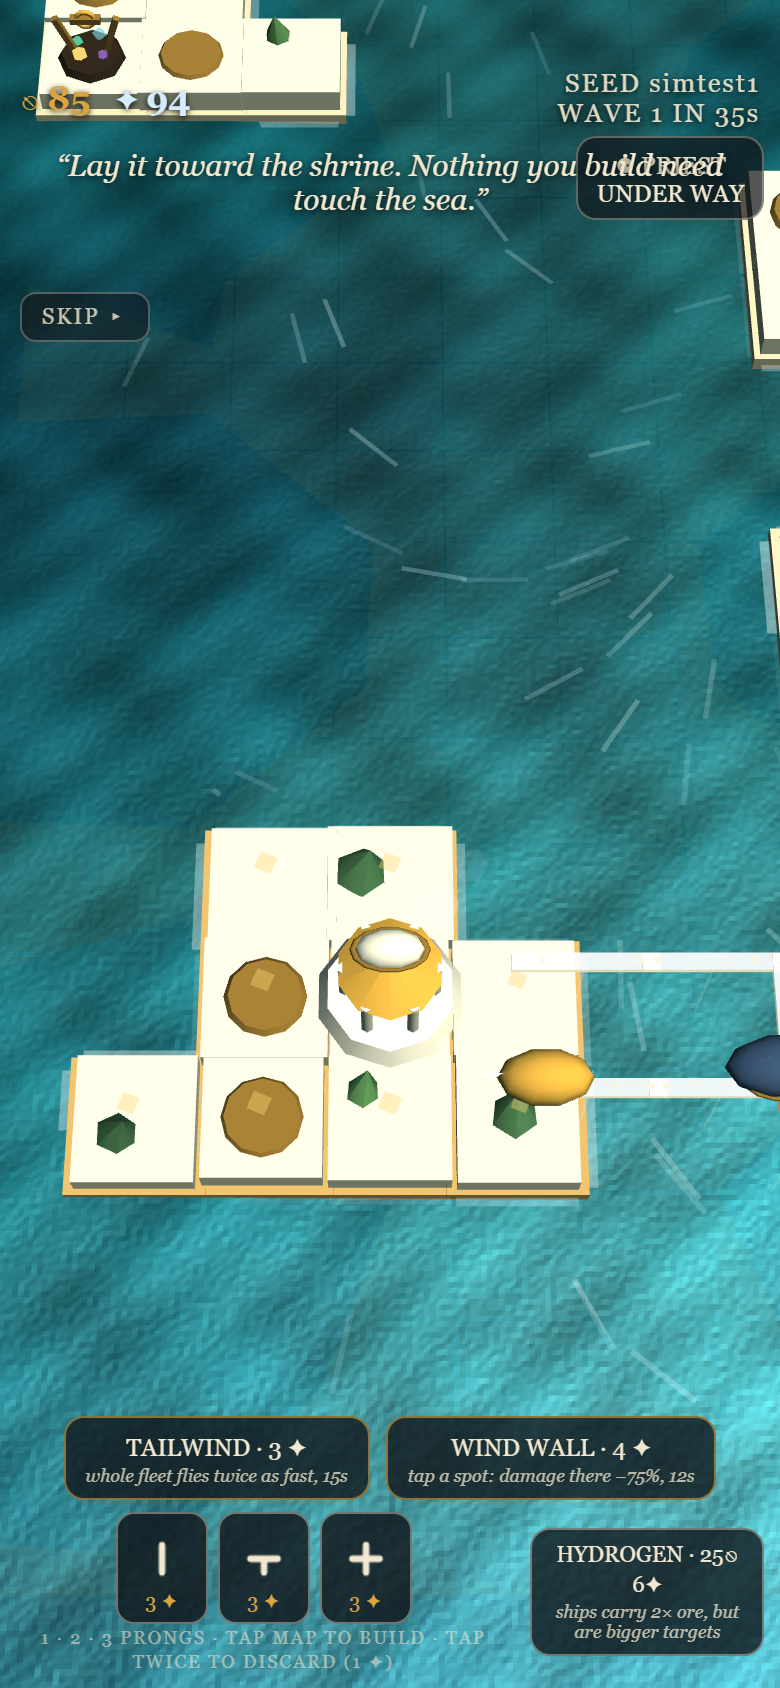
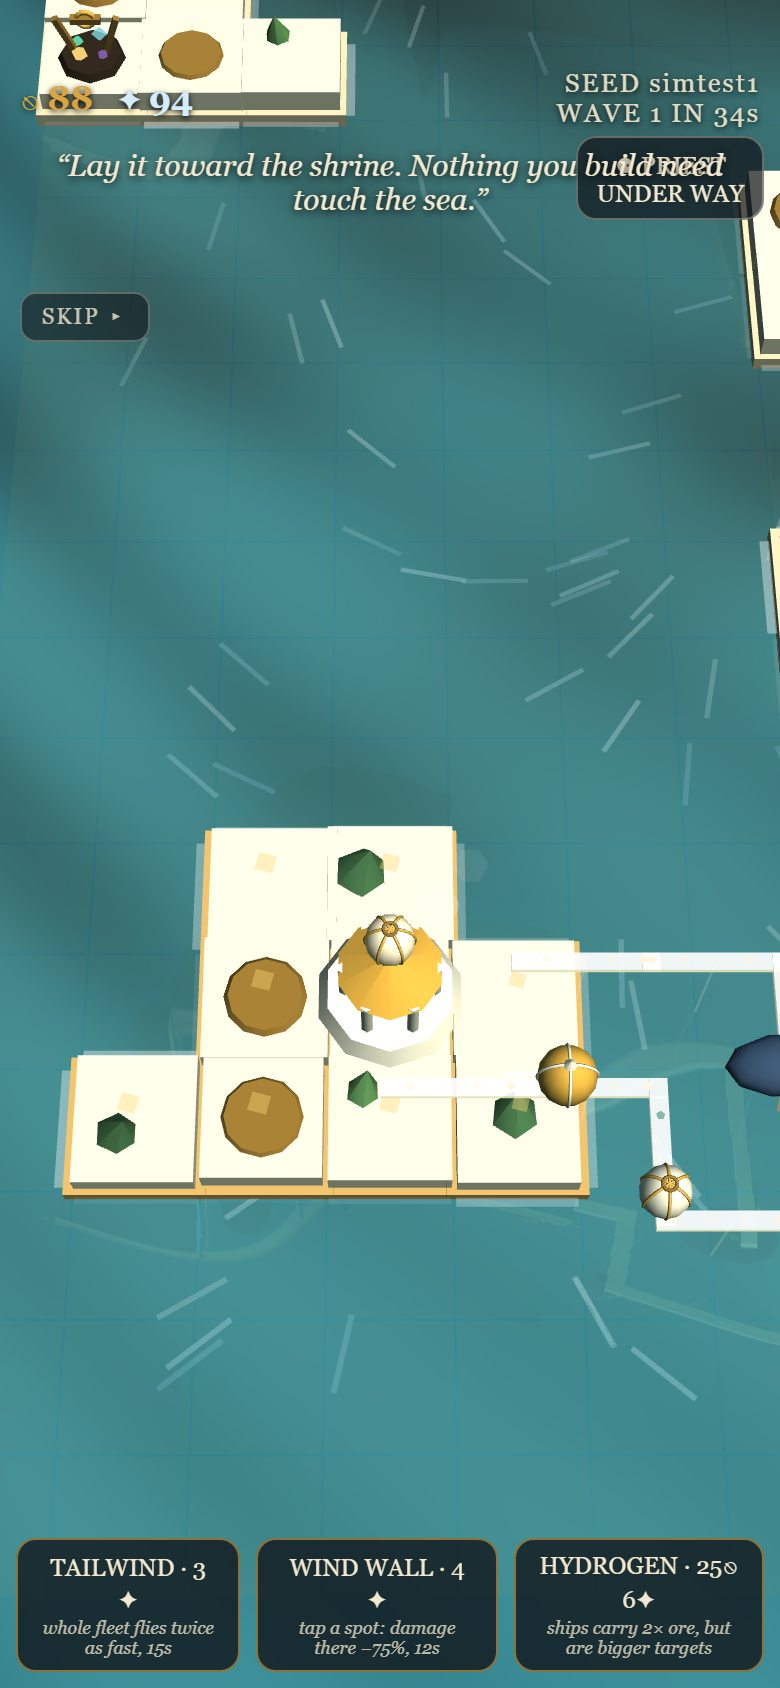
feat: clean bottom bar, ships pass around each other
- Bottom bar is one row: TAILWIND, WIND WALL, HYDROGEN. The mini-hand
  chips and the prongs/discard note are gone (player-directed) - pieces,
  reroll and discard all live in the thumb menu already.
- Ships no longer phase through each other: every ship keeps a hair to
  its own side of the road and leans out wider while another ship is
  within 0.6 cells, easing back when clear. Render-side only - combat
  and pathing unchanged.

Claude-Session: https://claude.ai/code/session_01NjEpo5MjLFBKVLFNZET6tb

diff --git a/index.html b/index.html
@@ -203,24 +203,20 @@
     <div id="codex" class="hidden"></div>
     <div id="buildmenu" class="hidden"></div>
     <div id="bottombar">
+      <!-- one clean row: the two petitions and the fleet upgrade. The
+           hand chips and prongs note are gone (player-directed) — pieces
+           live in the thumb menu, discard/reroll live there too. -->
       <div id="powers">
         <button class="powbtn" id="pow-tailwind">TAILWIND · 3 &#10022;<span class="powdesc">whole fleet flies twice as fast, 15s</span></button>
         <button class="powbtn" id="pow-windwall">WIND WALL · 4 &#10022;<span class="powdesc">tap a spot: damage there &minus;75%, 12s</span></button>
+        <button class="powbtn" id="btn-tech">HYDROGEN · 25&#9099; 6&#10022;<span class="powdesc">ships carry 2&times; ore, but are bigger targets</span></button>
       </div>
       <div id="confirmrow">
         <button id="btn-confirm" class="hidden">CONFIRM</button>
         <button id="btn-rotate" class="hidden">&#8635; TURN</button>
         <button id="btn-cancel" class="hidden">CANCEL</button>
       </div>
-      <div style="display:flex; gap:10px; justify-content:center; align-items:center;">
-        <div>
-          <div id="hand"></div>
-          <div id="handlabel">1 &middot; 2 &middot; 3 PRONGS &middot; TAP MAP TO BUILD &middot; TAP TWICE TO DISCARD (1 &#10022;)</div>
-        </div>
-        <div id="handside">
-          <button class="sidebtn" id="btn-tech">HYDROGEN · 25&#9099; 6&#10022;<span class="powdesc">ships carry 2&times; ore, but are bigger targets</span></button>
-        </div>
-      </div>
+      <div id="hand" class="hidden"></div>
     </div>
   </div>
   <button id="skipbtn" class="hidden">SKIP &#9656;</button>
@@ -5359,9 +5355,27 @@ function syncMovers(state) {
     const dx = m.pos[0] - rec.lastPos[0], dz = m.pos[1] - rec.lastPos[1];
     if (Math.abs(dx) + Math.abs(dz) > 0.001) {
       rec.grp.rotation.y = -Math.atan2(dz, dx);
+      const dl = Math.hypot(dx, dz);
+      rec.dir = [dx / dl, dz / dl];
       rec.lastPos = m.pos.slice();
     }
     rec.grp.position.set(worldX(m.pos[0]), moverY(m), worldZ(m.pos[1]));
+    // ships pass AROUND each other, not through: every ship keeps a hair
+    // to its own side of the road and leans out wider while another ship
+    // is close, easing back once the road is clear
+    if (m.state !== 'adrift') {
+      let crowd = 0;
+      for (const o of movers) {
+        if (o === m) continue;
+        if (Math.hypot(o.pos[0] - m.pos[0], o.pos[1] - m.pos[1]) < 0.6) { crowd = 1; break; }
+      }
+      rec.dodge = (rec.dodge || 0) + (crowd - (rec.dodge || 0)) * 0.08;
+      if (rec.dir) {
+        const side = (m.id % 2 ? 1 : -1) * (0.05 + 0.22 * rec.dodge);
+        rec.grp.position.x += -rec.dir[1] * side;
+        rec.grp.position.z += rec.dir[0] * side;
+      }
+    }
     if (m.state === 'adrift') {
       rec.grp.rotation.y += Math.sin(state.time * 3 + m.id) * 0.15;
       rec.grp.rotation.z = Math.sin(state.time * 2.2 + m.id) * 0.3;

diff --git a/shell.html b/shell.html
@@ -203,24 +203,20 @@
     <div id="codex" class="hidden"></div>
     <div id="buildmenu" class="hidden"></div>
     <div id="bottombar">
+      <!-- one clean row: the two petitions and the fleet upgrade. The
+           hand chips and prongs note are gone (player-directed) — pieces
+           live in the thumb menu, discard/reroll live there too. -->
       <div id="powers">
         <button class="powbtn" id="pow-tailwind">TAILWIND · 3 &#10022;<span class="powdesc">whole fleet flies twice as fast, 15s</span></button>
         <button class="powbtn" id="pow-windwall">WIND WALL · 4 &#10022;<span class="powdesc">tap a spot: damage there &minus;75%, 12s</span></button>
+        <button class="powbtn" id="btn-tech">HYDROGEN · 25&#9099; 6&#10022;<span class="powdesc">ships carry 2&times; ore, but are bigger targets</span></button>
       </div>
       <div id="confirmrow">
         <button id="btn-confirm" class="hidden">CONFIRM</button>
         <button id="btn-rotate" class="hidden">&#8635; TURN</button>
         <button id="btn-cancel" class="hidden">CANCEL</button>
       </div>
-      <div style="display:flex; gap:10px; justify-content:center; align-items:center;">
-        <div>
-          <div id="hand"></div>
-          <div id="handlabel">1 &middot; 2 &middot; 3 PRONGS &middot; TAP MAP TO BUILD &middot; TAP TWICE TO DISCARD (1 &#10022;)</div>
-        </div>
-        <div id="handside">
-          <button class="sidebtn" id="btn-tech">HYDROGEN · 25&#9099; 6&#10022;<span class="powdesc">ships carry 2&times; ore, but are bigger targets</span></button>
-        </div>
-      </div>
+      <div id="hand" class="hidden"></div>
     </div>
   </div>
   <button id="skipbtn" class="hidden">SKIP &#9656;</button>

diff --git a/src/18_render2.js b/src/18_render2.js
@@ -588,9 +588,27 @@ function syncMovers(state) {
     const dx = m.pos[0] - rec.lastPos[0], dz = m.pos[1] - rec.lastPos[1];
     if (Math.abs(dx) + Math.abs(dz) > 0.001) {
       rec.grp.rotation.y = -Math.atan2(dz, dx);
+      const dl = Math.hypot(dx, dz);
+      rec.dir = [dx / dl, dz / dl];
       rec.lastPos = m.pos.slice();
     }
     rec.grp.position.set(worldX(m.pos[0]), moverY(m), worldZ(m.pos[1]));
+    // ships pass AROUND each other, not through: every ship keeps a hair
+    // to its own side of the road and leans out wider while another ship
+    // is close, easing back once the road is clear
+    if (m.state !== 'adrift') {
+      let crowd = 0;
+      for (const o of movers) {
+        if (o === m) continue;
+        if (Math.hypot(o.pos[0] - m.pos[0], o.pos[1] - m.pos[1]) < 0.6) { crowd = 1; break; }
+      }
+      rec.dodge = (rec.dodge || 0) + (crowd - (rec.dodge || 0)) * 0.08;
+      if (rec.dir) {
+        const side = (m.id % 2 ? 1 : -1) * (0.05 + 0.22 * rec.dodge);
+        rec.grp.position.x += -rec.dir[1] * side;
+        rec.grp.position.z += rec.dir[0] * side;
+      }
+    }
     if (m.state === 'adrift') {
       rec.grp.rotation.y += Math.sin(state.time * 3 + m.id) * 0.15;
       rec.grp.rotation.z = Math.sin(state.time * 2.2 + m.id) * 0.3;
